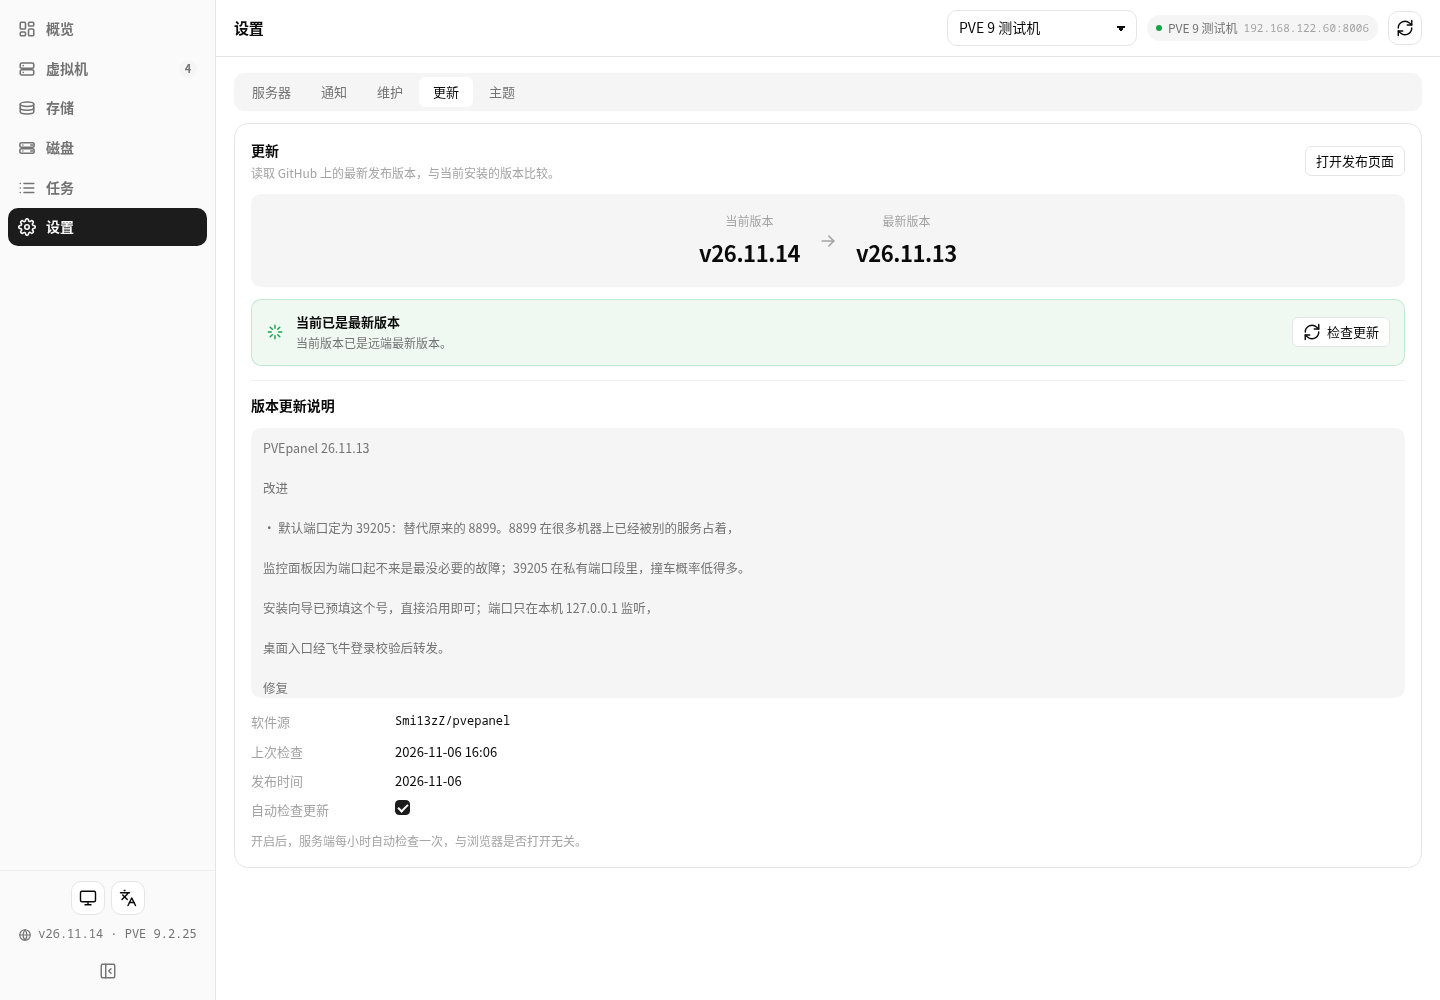
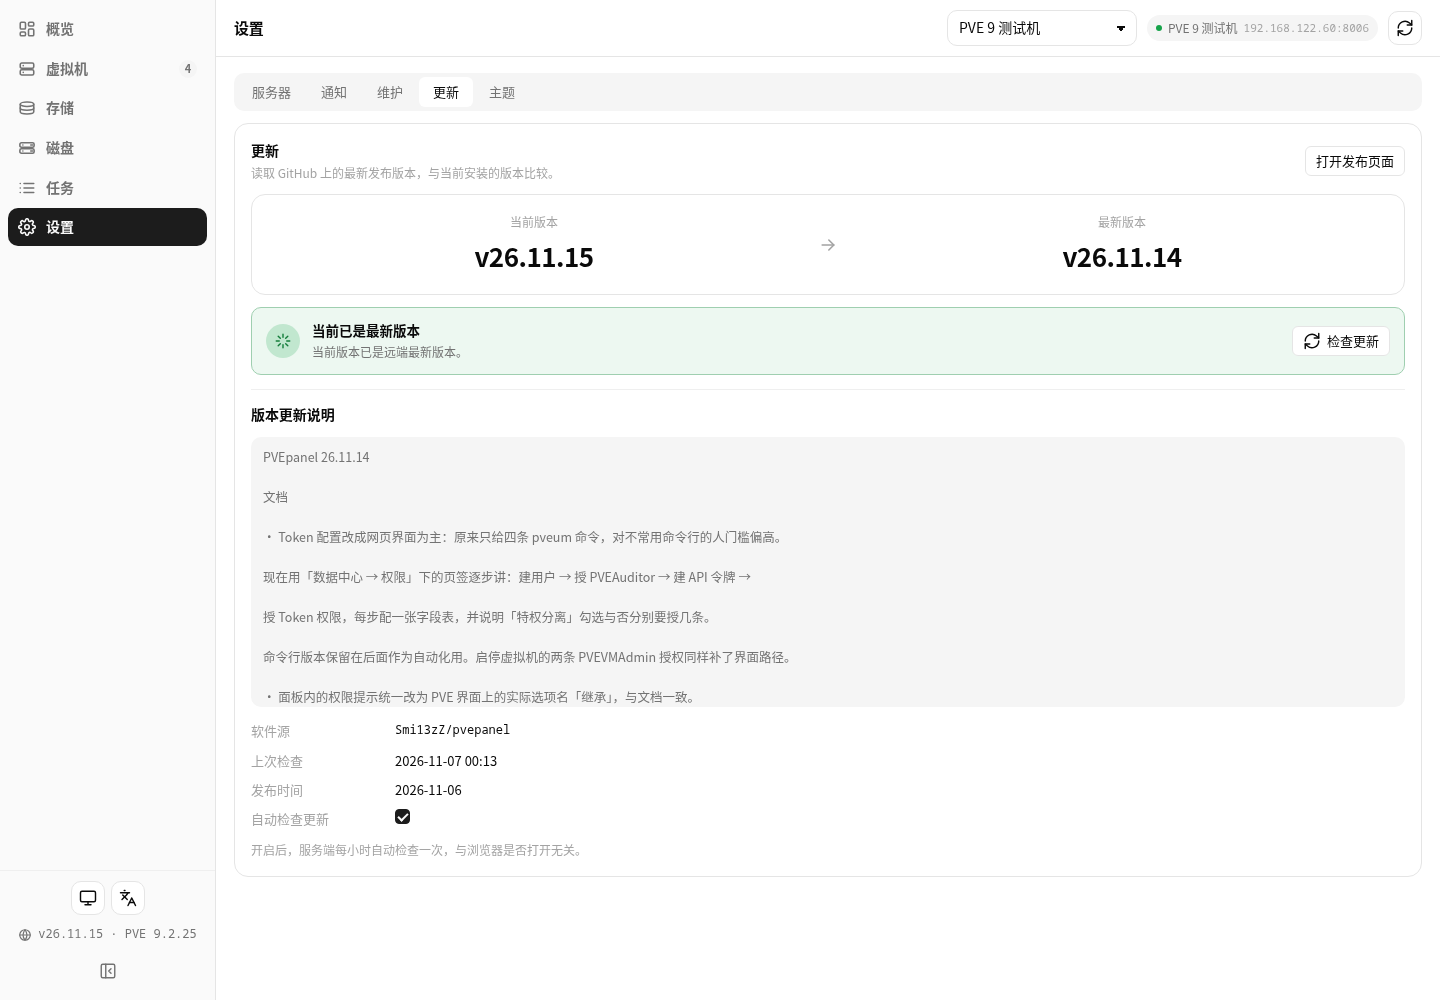
feat: 更新页状态条与版本对照区重做，手机端布局跟上
状态条原来用 18px 小图标贴着标题，手机上和「检查更新」按钮挤同一行，标题被挤断。
现在图标是 34px 圆形带底色，「已是最新 / 发现新版本」各有独立的底色与描边；
手机端标题独占一行、按钮沉到第二行整行铺满。

版本对照区从浅底改为描边卡片，两栏各占一半宽度并居中，数字不再因内容长短
而看起来字号不一。

设备实测：390x844 与 1440x1000 两种尺寸、深浅色主题均已核对；18 个视图
console 零报错；preflight 全绿。README 的 update 截图同步更新。

diff --git a/src/fn-pvepanel/app/web/style.css b/src/fn-pvepanel/app/web/style.css
@@ -704,14 +704,14 @@ canvas { display: block; width: 100%; height: 100%; }
  * Update section
  * ================================================================ */
 .vhero {
-  display: flex; align-items: center; justify-content: center; gap: 18px;
-  padding: 18px 12px; border-radius: var(--radius);
-  background: var(--muted); margin-bottom: 12px;
+  display: flex; align-items: center; gap: 18px;
+  padding: 18px 16px; margin-bottom: 12px;
+  border: 1px solid var(--border); border-radius: var(--radius-lg);
 }
-.vcol { display: flex; flex-direction: column; align-items: center; gap: 4px; min-width: 0; }
+.vcol { flex: 1 1 0; min-width: 0; text-align: center; }
 .vk { font-size: 12px; color: var(--faint); }
 .vv {
-  font-size: 22px; font-weight: 600; letter-spacing: -.02em;
+  margin-top: 4px; font-size: 26px; font-weight: 600; letter-spacing: -.02em;
   font-variant-numeric: tabular-nums; white-space: nowrap;
 }
 .vv.fresh { color: var(--accent-bar); }
@@ -723,13 +723,31 @@ canvas { display: block; width: 100%; height: 100%; }
   padding: 12px 14px; border-radius: var(--radius);
   border: 1px solid var(--border); flex-wrap: wrap;
 }
-.vstatus.has { background: color-mix(in srgb, var(--warn) 9%, transparent); border-color: color-mix(in srgb, var(--warn) 28%, transparent); }
-.vstatus.has .vsic { color: var(--warn); }
-.vstatus.idle { background: color-mix(in srgb, var(--ok) 7%, transparent); border-color: color-mix(in srgb, var(--ok) 20%, transparent); }
-.vstatus.idle .vsic { color: var(--ok); }
-.vsic { flex: 0 0 18px; width: 18px; height: 18px; display: flex; align-items: center; justify-content: center; }
-.vstext { display: flex; flex-direction: column; gap: 2px; min-width: 0; }
-.vstext b { font-weight: 600; font-size: 13px; }
+.vstatus.has {
+  border-color: color-mix(in srgb, var(--warn) 40%, var(--border));
+  background: color-mix(in srgb, var(--warn) 8%, transparent);
+}
+.vstatus.has .vsic {
+  background: color-mix(in srgb, var(--warn) 20%, transparent);
+  color: color-mix(in srgb, var(--warn) 75%, var(--text));
+}
+.vstatus.idle {
+  border-color: color-mix(in srgb, var(--ok) 34%, var(--border));
+  background: color-mix(in srgb, var(--ok) 8%, transparent);
+}
+.vstatus.idle .vsic {
+  background: color-mix(in srgb, var(--ok) 20%, transparent);
+  color: color-mix(in srgb, var(--ok) 75%, var(--text));
+}
+/* The status icon carries as much weight as the text beside it: a 34px disc
+   with a tinted background, not an 18px glyph that the headline dwarfs. */
+.vsic {
+  flex: 0 0 34px; width: 34px; height: 34px; border-radius: 50%;
+  display: flex; align-items: center; justify-content: center;
+  background: var(--muted); color: var(--dim);
+}
+.vstext { display: flex; flex-direction: column; gap: 2px; min-width: 0; flex: 1 1 180px; }
+.vstext b { font-weight: 600; font-size: 13.5px; }
 .vstext span { font-size: 12px; color: var(--dim); }
 
 /* One-click update overlay. The install stops the service, so the page WILL
@@ -886,10 +904,14 @@ canvas { display: block; width: 100%; height: 100%; }
   .alert .txt { flex: 1 1 100%; }
   .row-acts { flex: 1 1 100%; justify-content: flex-start; margin-left: 0; margin-top: 6px; }
 
-  .vhero { gap: 10px; padding: 14px 8px; }
-  .vv { font-size: 18px; }
-  .vstatus { gap: 8px; }
-  .vstatus .btn { flex: 1 1 auto; }
+  .vhero { padding: 14px 10px; gap: 10px; }
+  .vv { font-size: 21px; }
+  .vstatus { gap: 10px; }
+  /* Phone: the headline takes the full first row and the buttons drop to a
+     second, full-width row (thumb reach). Sharing one row squeezes the text
+     against the buttons until the title wraps mid-phrase. */
+  .vstext { flex: 1 1 100%; order: 2; }
+  .vstatus .btn { order: 3; flex: 1 1 auto; }
   .upoverlay-box { padding: 18px 16px 14px; }
 
   /* backup table: filename gets the room, size moves under it */

diff --git a/CHANGELOG.md b/CHANGELOG.md
@@ -1,5 +1,15 @@
 # 更新日志
 
+## 26.11.15
+
+**改进**
+
+- **更新页的状态条重做**：原来是 18px 的小图标挤在标题左边，手机上还和按钮抢同一行，
+  标题常被挤成两截。现在图标换成 34px 圆形带底色的标识，「已是最新 / 发现新版本」两种
+  状态各有自己的底色与描边；手机上标题独占一行、按钮沉到第二行整行铺满，单手好按。
+- 版本对照区改成描边卡片，「当前版本 → 最新版本」两个数字各占一半宽度并居中，
+  对齐之后两边数字的字号也不会再因为内容长短而看着不一样。
+
 ## 26.11.14
 
 **文档**
